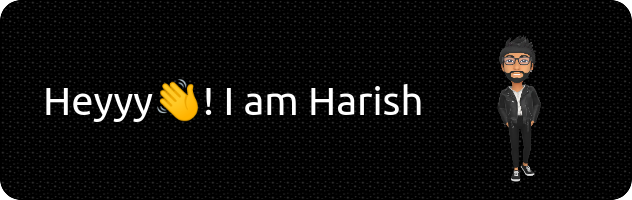
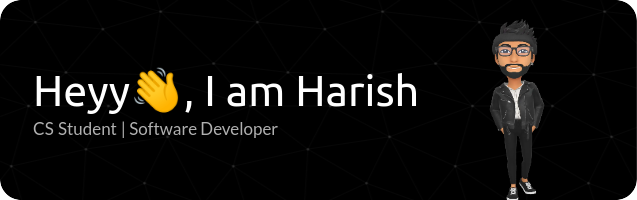
added social links | stats updated

diff --git a/README.md b/README.md
@@ -1,47 +1,52 @@
-<img src="./images/github-header-image.png">
-
-<!--
-<p>Software Developer Intern @ CoffeeInc | CS Student </p>
-<p><em>Studying Computer Science <div>Debugging my Life</div>
-</em></p> -->
-<br/>
-<!-- Social links -->
-
-👯 Just started my journey in Open-Source <img src="./images/gifs-images/duck-walk.gif" alt="Duck-walk" height="35px" width="35px">
-
-😇 Actively contributing to Open source projects
+<div style="width:100%">
+<img src="./images/github-header-image.png" alt="banner_image" style="width:100%">
+</div>
 
 <br/>
 
-### About me...
+<div align="center" style="width:100%;">
+<div>
+    <a href="https://harish-balaji.vercel.app/" target="_blank">
+      <img src="https://img.shields.io/badge/website-000000?style=for-the-badge&logo=About.me&logoColor=white" alt="Website"/>
+    </a>
+    <a href="https://www.linkedin.com/in/harish-b-42a7911b9/" target="_blank">
+      <img src="https://img.shields.io/badge/LinkedIn-0077B5?style=for-the-badge&logo=linkedin&logoColor=white" alt="Website"/>
+    </a>
+    <a href="mailto:harishbalaji369@gmail.com" target="_blank">
+      <img src="https://img.shields.io/badge/Gmail-D14836?style=for-the-badge&logo=gmail&logoColor=white" alt="Website"/>
+    </a>
+    <a href="https://medium.com/@harishbalaji369" target="_blank">
+      <img src="https://img.shields.io/badge/Medium-12100E?style=for-the-badge&logo=medium&logoColor=white" alt="Website"/>
+    </a>
+</div>
+</div>
+
+<br/>
+
+### A little bit more about me...
 
 ```javascript
 const harish = {
   pronouns: "He" | "his",
-  country: India,
-  role: Student,
-  code: [ C++, Javascript, Typescript, HTML, CSS, Go, Java ],
-  tools: [ React, Next, Node, Docker, Kubernetes, TailwindCSS ],
-  databases: [ "Firebase", "MongoDB", "Postgres" ],
-
-  learning: [ AWS ],
-  workingOn: { "Personal_Projects", "Softskills", "Contributions", "AWS Certification"},
-
-  lookingFor: "Contributing_to_Open-Source", "Internships"
+  country: "India",
+  role: "Student" && "Intern",
+  code: ["Java", "Javascript", "HTML", "CSS", "Go", "C++", "Python"],
+  frameworks: [ "NextJS", "ReactJS", "Typescript", "NodeJS" ],
+  others: [ "PostgreSQL", "AWS", "MongoDB", "Firebase", "Docker", "Kubernetes", "TailwindCSS", "RestAPI", "Figma", "Git" ],
+  workingOn: [ "Personal_Projects", "Softskills", "Contributions" ],
+  lookingFor: [ "Contributing_to_Open-Source", "Internships" ]
 }
 ```
 
 <br/>
 
----
-
 <h3>Some Stats</h3>
 
-<div>
-    <img src="https://github-profile-summary-cards.vercel.app/api/cards/profile-details?username=Harish-b-03&theme=github_dark"/>
+<div align="center">
+    <img src="https://github-profile-summary-cards.vercel.app/api/cards/profile-details?username=Harish-b-03&theme=github_dark&border_color=333"/>
     <br/>
     <br/>
-    <img src="https://github-readme-stats.vercel.app/api/top-langs/?username=Harish-b-03&theme=dark"/>
+    <img src="https://github-readme-stats.vercel.app/api/top-langs/?username=Harish-b-03&layout=compact&theme=github_dark&border_color=333" alt=""/>
 </div>
 
 <p>
